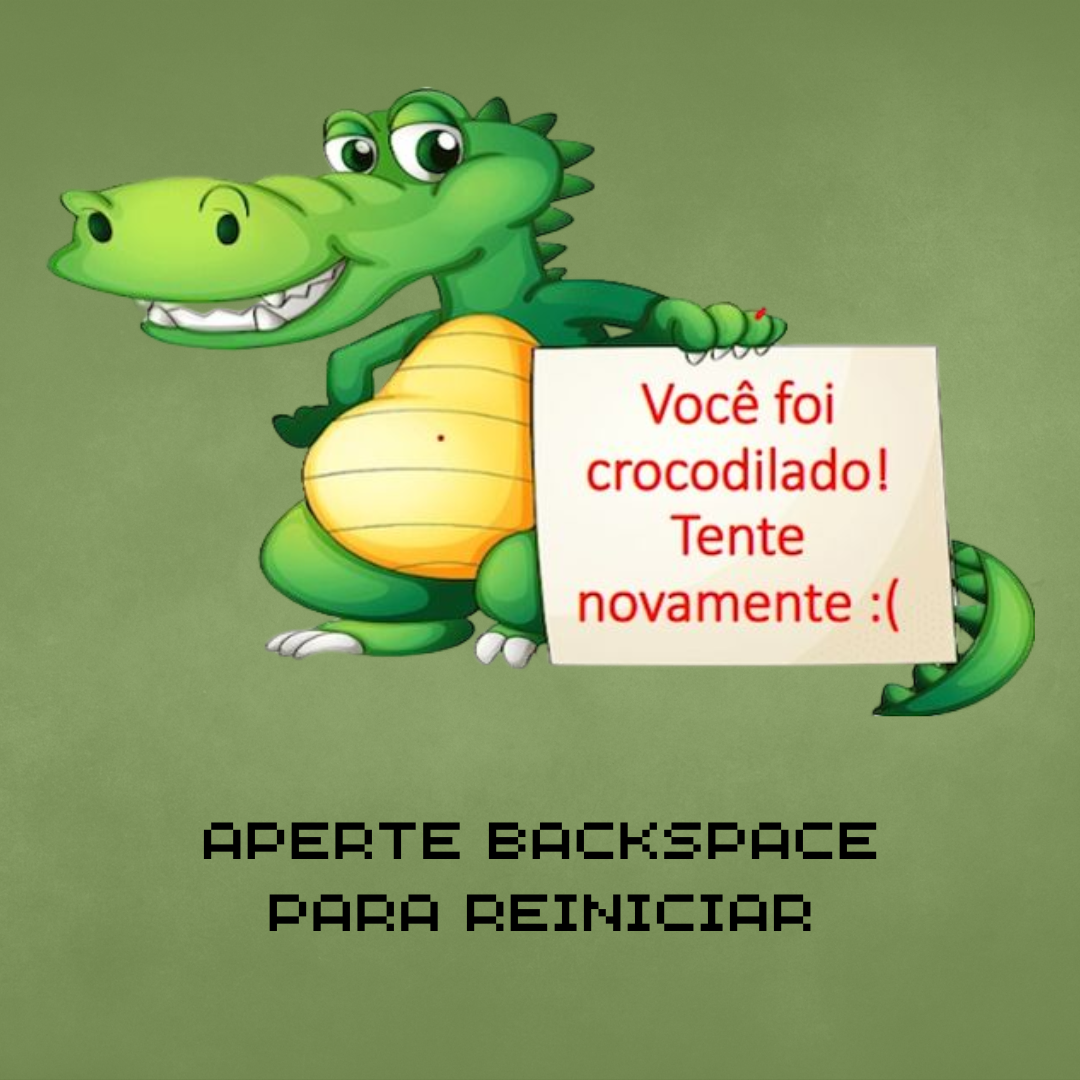
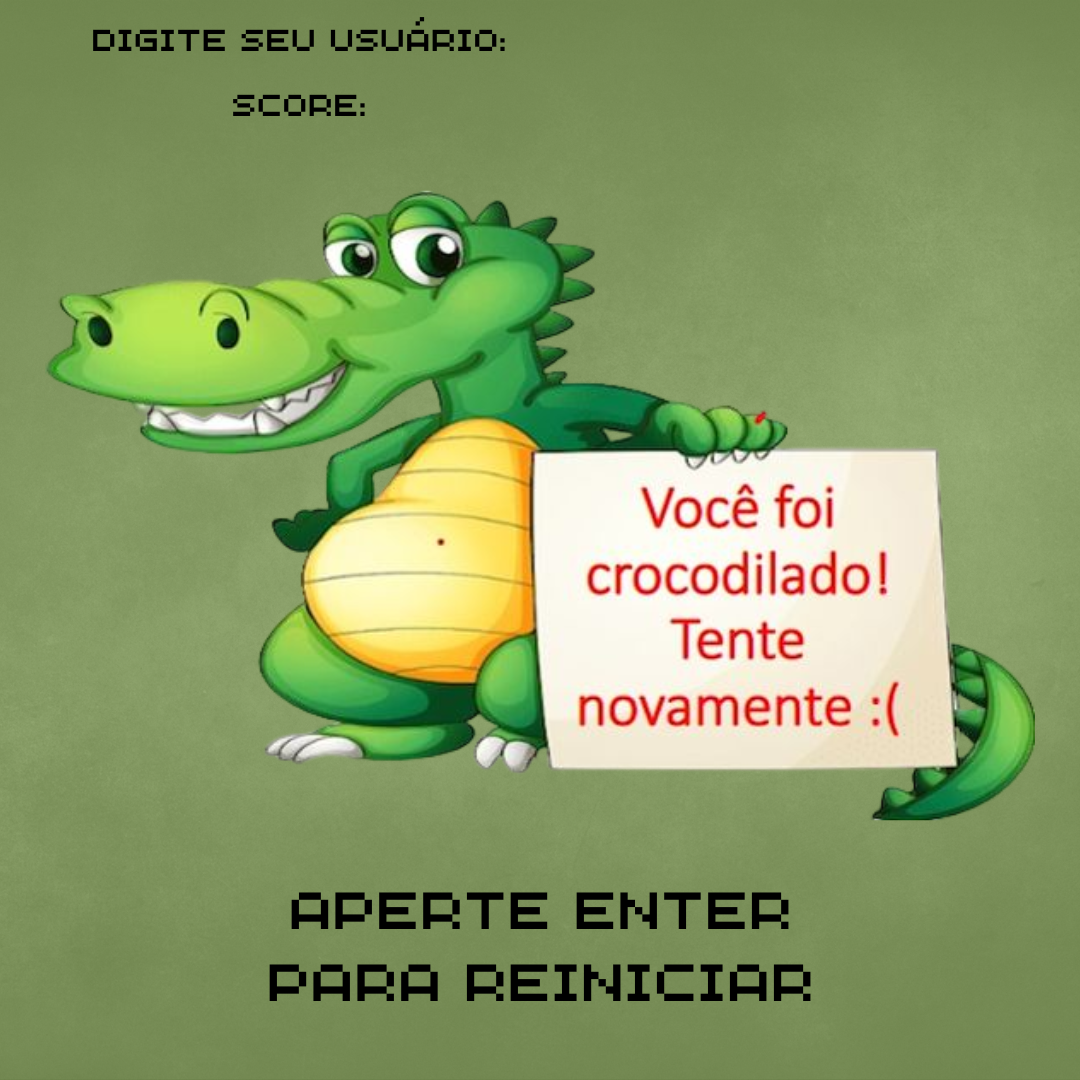
Salva Score

diff --git a/game_over_screen.py b/game_over_screen.py
@@ -5,7 +5,7 @@ from game_screen import game_screen
 from config import IMG_DIR, BLACK, FPS, GAME, QUIT
 
 
-def game_over_screen(screen):
+def game_over_screen(screen, score):
     # Variável para o ajuste de velocidade
     clock = pygame.time.Clock()
 
@@ -15,6 +15,11 @@ def game_over_screen(screen):
     background_rect = background.get_rect()
 
     running = True
+    username = ''
+
+    font_g =  pygame.font.Font('assets/font/PressStart2P.ttf', 24)
+    font_m =  pygame.font.Font('assets/font/PressStart2P.ttf', 24)
+
     while running:
 
         # Ajusta a velocidade do jogo.
@@ -26,16 +31,42 @@ def game_over_screen(screen):
                 state = QUIT
                 running = False
                 
-            keys = pygame.key.get_pressed()
-            if keys[pygame.K_BACKSPACE]:
-                state = GAME
-                game_screen(screen)
+            # keys = pygame.key.get_pressed()
+            # if keys[pygame.K_BACKSPACE]:
+            #     state = GAME
+            #     game_screen(screen)
+
+            #quando usuário digita algo
+            if event.type == pygame.KEYDOWN:
+                if event.key == pygame.K_RETURN:
+                    state = GAME
+                    game_screen(screen)
+
+                elif event.key == pygame.K_BACKSPACE and len(username) > 0:
+                    # Quando usuário aperta a tecla para apagar o texto
+                    username = username[:len(username)-1]  
+                                      
+                else:
+                    # Concatena a letra digitada pelo jogador
+                    username += event.unicode
 
         # A cada loop, redesenha o fundo e os sprites
         screen.fill(BLACK)
         screen.blit(background, background_rect)
 
+        # Texto Usuário
+        text = font_g.render(f'{username}', True, (255, 255, 255))
+        screen.blit(text, (450, 10))
+
+        text = font_g.render(f'{score}', True, (255, 255, 255))
+        screen.blit(text, (320, 55))
+        
         # Depois de desenhar tudo, inverte o display.
         pygame.display.flip()
+
+    # Salvando informações no arquivo
+    with open('score.txt', 'a') as arquivo:
+        conteudo = f'{username} - {score}\n'
+        arquivo.write(conteudo)
 
     return state

diff --git a/MAIN.py b/MAIN.py
@@ -16,14 +16,17 @@ window = pygame.display.set_mode((WIDTH, HEIGHT))
 pygame.display.set_caption('CrocoQuest: A Caçada Mortal')
 
 state = INIT
+score = 0
 while state != QUIT:
     if state == INIT:
         state = init_screen(window)
     elif state == GAME:
-        state = game_screen(window)
-        print(state)
+        lista = game_screen(window)
+        state = lista[0]
+        score = lista[1]
 if state == QUIT:
-    state = game_over_screen(window)
+    print(score)
+    state = game_over_screen(window, score)
 
 # ===== Finalização =====
 pygame.quit()  # Função do PyGame que finaliza os recursos utilizados

diff --git a/game_screen.py b/game_screen.py
@@ -81,8 +81,7 @@ def game_screen(window):
             
             if len(hits) > 0:
                 # Toca Som
-                assets['dead'].play()
-                score = 0 
+                assets['dead'].play() 
                 player.kill()
                 time.sleep(1) 
 
@@ -103,4 +102,4 @@ def game_screen(window):
 
         pygame.display.update()  
 
-    return state
+    return [state, score] 
